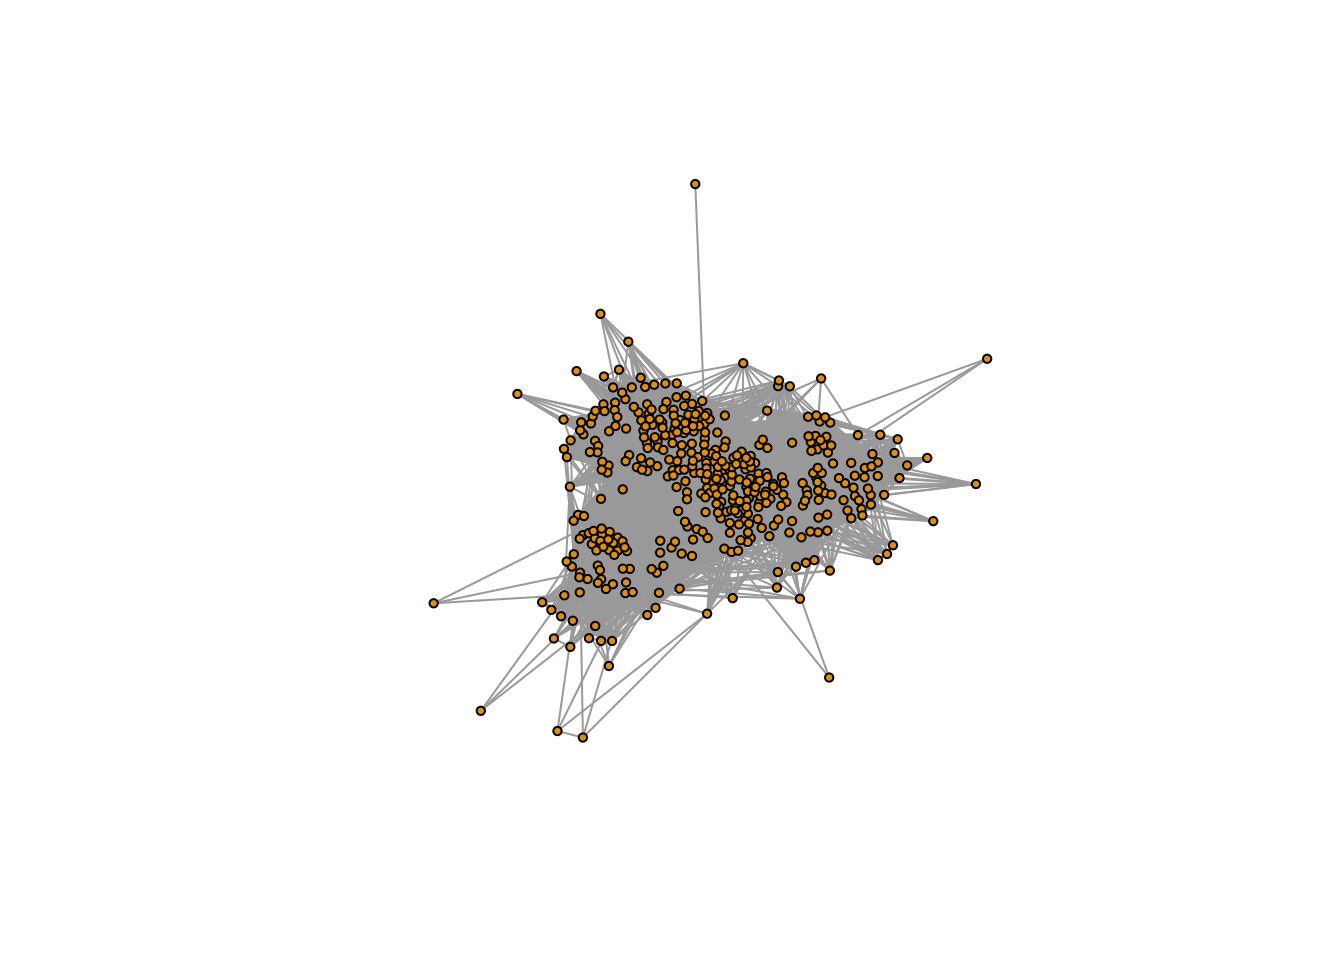
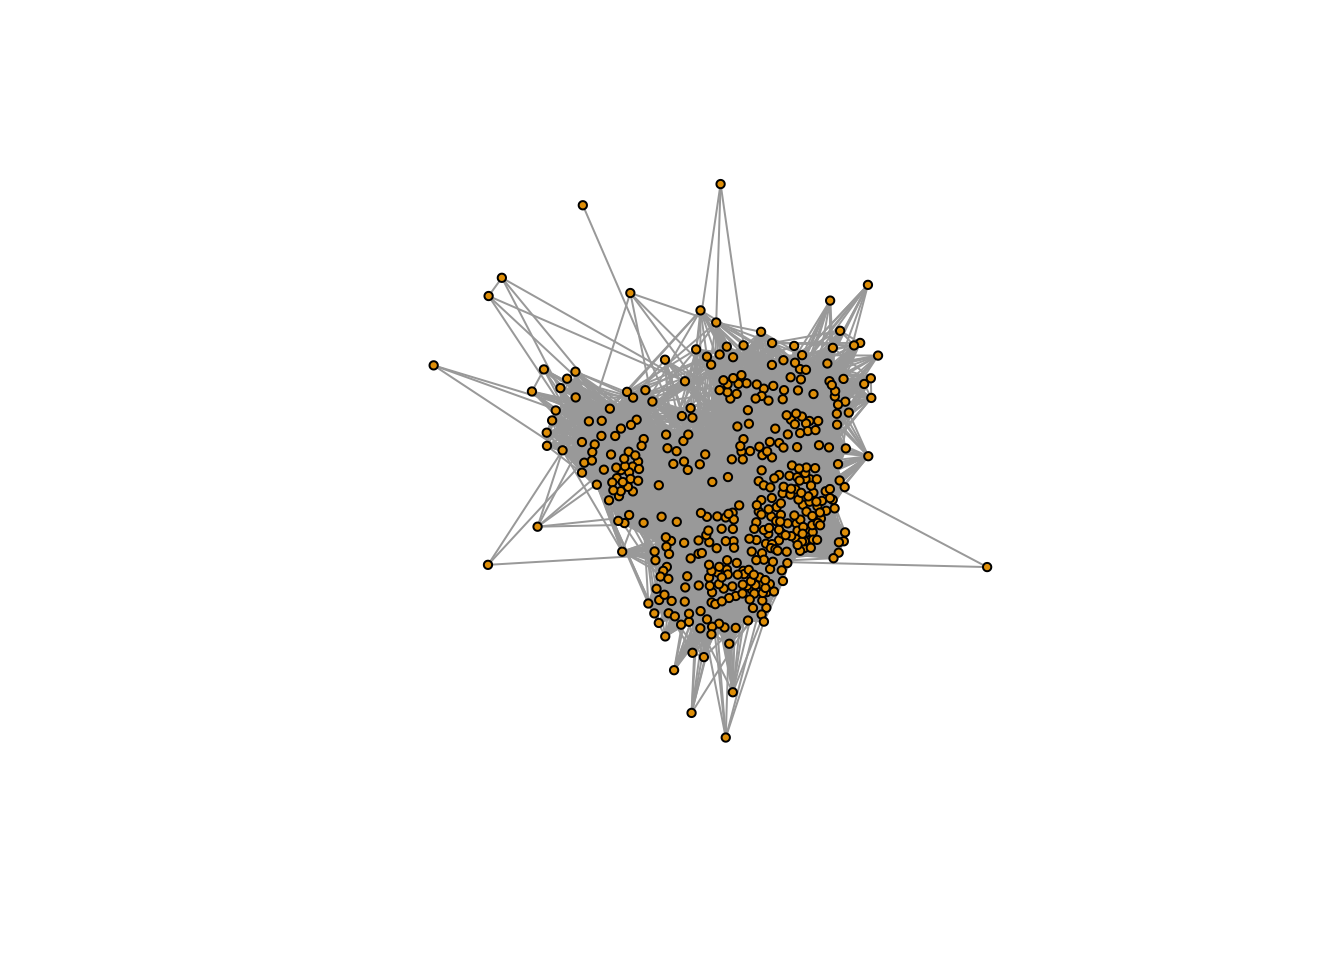
Add graph_hot_otus function

diff --git a/docs/data_exploration.html b/docs/data_exploration.html
@@ -355,37 +355,40 @@ head(arg_cooccurrence_table)</code></pre>
 </div>
 <div id="graph-analysis" class="section level2">
 <h2>Graph Analysis</h2>
-<p>We begin our network analysis of the ARG cooccurrence by: 1. Separating <code>arg_cooccurrence_table</code> into positive and negative values, t 2.</p>
+<p>We begin our network analysis of the ARG cooccurrence by separating <code>arg_cooccurrence_table</code> by positive and negative values and then:</p>
+<ol style="list-style-type: decimal">
+<li>Finding the optimal community structure of each observed network</li>
+<li>Generating mock community structure of each network and recording the modularity of each mock community structure, as well as which ARGs are the most central</li>
+<li>Comparing the modularity of the observed network against the distribution of the mock communities to determine statistical significance</li>
+</ol>
 <pre class="r"><code>positive_arg_cooccurrence &lt;- arg_cooccurrence_table[arg_cooccurrence_table[[&#39;rho&#39;]] &gt; 0, ]
-negative_arg_cooccurrence &lt;- arg_cooccurrence_table[arg_cooccurrence_table[[&#39;rho&#39;]] &lt; 0, ]</code></pre>
+gr_pos_cooccurrence &lt;- graph.data.frame(positive_arg_cooccurrence, directed = FALSE)
+negative_arg_cooccurrence &lt;- arg_cooccurrence_table[arg_cooccurrence_table[[&#39;rho&#39;]] &lt; 0, ]
+gr_neg_cooccurrence &lt;- graph.data.frame(positive_arg_cooccurrence, directed = FALSE)</code></pre>
 <p>We’ll now</p>
-<pre class="r"><code>gr_pos_cooccurrence &lt;- graph.data.frame(positive_arg_cooccurrence, directed = FALSE)
-plot(gr_pos_cooccurrence, vertex.size = 3, vertex.label = NA)</code></pre>
+<pre class="r"><code>plot(gr_pos_cooccurrence, vertex.size = 3, vertex.label = NA)</code></pre>
 <p><img src="data_exploration_files/figure-html/graph_analysis.2-1.png" width="672" /></p>
 <p>Finding communities. Beginning with greedy optimization to get big picture.</p>
-<pre class="r"><code>  communities_object &lt;- cluster_fast_greedy(gr_pos_cooccurrence, weights = E(gr_pos_cooccurrence)$rho)
+<pre class="r"><code>graph_hot_otus &lt;- function(graph_object){
+  communities_object &lt;- cluster_fast_greedy(graph_object, weights = E(graph_object)$rho)
   hot_otus &lt;- vector
   for (community in communities(communities_object)){
-    sub_graph &lt;- induced.subgraph(graph = gr_pos_cooccurrence, 
+    sub_graph &lt;- induced.subgraph(graph = graph_object, 
                                     v = community, impl = &quot;auto&quot;)
     highest_degree_otu &lt;- V(sub_graph)[which.max(degree(sub_graph))]$name
     hot_otus &lt;- c(hot_otus, highest_degree_otu)
     print(paste(&quot;Highest degree OTU was&quot;, highest_degree_otu, &quot;(degree =&quot;,  
               degree(sub_graph, highest_degree_otu), &quot;):&quot;))
-  }</code></pre>
-<pre><code>## [1] &quot;Highest degree OTU was gb.U57969.+.1485-4617.ARO:3000801.MexD (degree = 117 ):&quot;
-## [1] &quot;Highest degree OTU was gb.AM183304.+.208-1069.ARO:3001017.TEM-150 (degree = 62 ):&quot;
-## [1] &quot;Highest degree OTU was gb.NC_014638.1.-.1610636-1613960.ARO:3003730.Bifidobacteria (degree = 142 ):&quot;</code></pre>
-<pre class="r"><code>  plot(communities_object, gr_pos_cooccurrence, 
-     layout = layout.fruchterman.reingold(gr_pos_cooccurrence),
+  }
+  plot(communities_object, graph_object, 
+     layout = layout.lgl,
      rescaled = TRUE,
-     vertex.size = ifelse(V(gr_pos_cooccurrence) %in% hot_otus, 5, 1), 
-     vertex.label = ifelse(V(gr_pos_cooccurrence) %in% hot_otus, V(gr_pos_cooccurrence)$id, NA),
+     vertex.size = ifelse(V(graph_object) %in% hot_otus, 5, 1), 
+     vertex.label = ifelse(V(graph_object) %in% hot_otus, V(graph_object)$id, NA),
      vertex.label.cex = 2
-     )</code></pre>
-<p><img src="data_exploration_files/figure-html/graph_analysis.3-1.png" width="672" /></p>
-<pre class="r"><code>modularity(gr_pos_cooccurrence, membership(communities_object))</code></pre>
-<pre><code>## [1] 0.3436171</code></pre>
+     )
+  return(paste(&quot;Graph  modularity: &quot;, modularity(graph_object, membership(communities_object)), &quot;.&quot;, sep=&quot;&quot;))
+}</code></pre>
 </div>
 
 <p><br>
